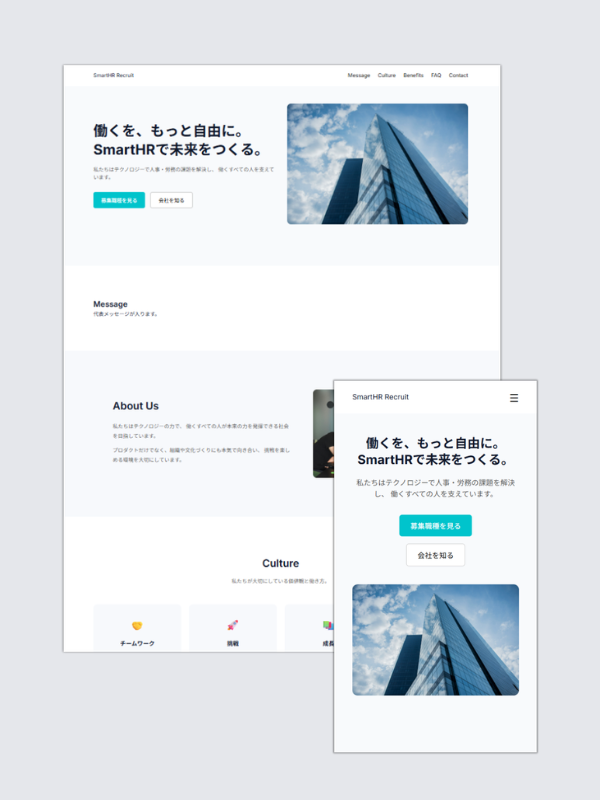
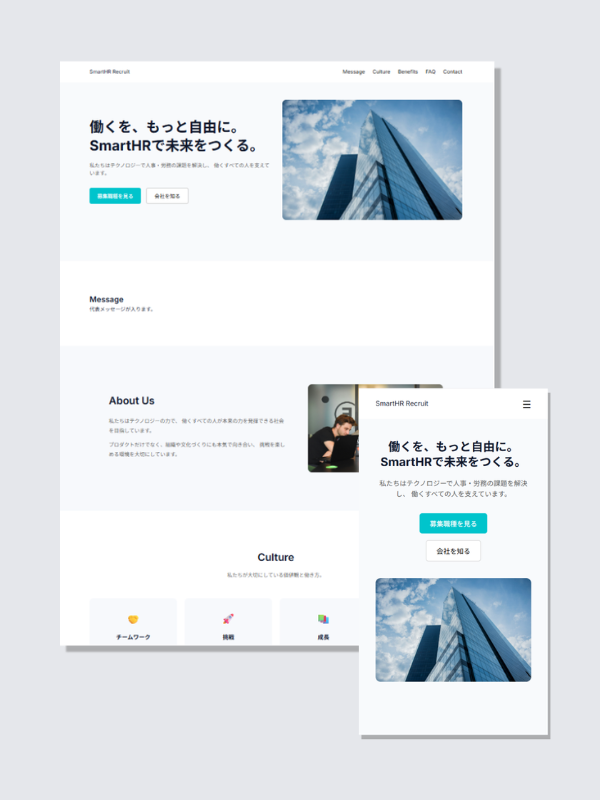
update: responsive + UI improvement

Changed region(s): [[0.09, 0.0625, 0.93, 0.9375], [0.18, 0.5, 0.48, 0.5938], [0.15, 0.3438, 0.27, 0.4062]]

diff --git a/src/components/sections/Works/Work.css b/src/components/sections/Works/Work.css
@@ -1,0 +1,218 @@
+/* ===== Works全体 ===== */
+.works {
+  background: #f7f7f7;
+  padding: 80px 20px;
+}
+
+.works h2 {
+  text-align: center;
+  margin-bottom: 60px;
+}
+
+
+/* ===== グリッド（2列） ===== */
+.projects-grid {
+  display: grid;
+  max-width: 2000px;
+  margin: 0 auto;
+  grid-template-columns: 1fr 1fr;
+  gap: 40px;
+}
+
+.project-card {
+  display: flex;
+  background: #fff;
+  align-items: stretch; 
+  border-radius: 16px; 
+  overflow: hidden;
+  transition: 0.25s;
+
+  box-shadow: 0 10px 30px rgba(0,0,0,0.08);
+}
+
+/* ===== 左：テキスト ===== */
+.project-card__content {
+  flex: 1;
+  padding: 50px;
+  display: flex;
+  flex-direction: column;
+  justify-content: center;
+}
+
+/* ===== 左：全体 ===== */
+.project-card__content {
+  flex: 1;
+  padding: 60px 50px; 
+  display: flex;
+  flex-direction: column;
+  justify-content: center;
+  gap: 20px;
+}
+
+/* タイトル */
+.project-card__title {
+  font-size: 24px;
+  font-weight: 600;
+  margin-bottom: 10px;
+}
+
+/* 説明 */
+.project-card__description {
+  font-size: 14px;
+  color: #555;
+  line-height: 1.6;
+}
+
+/* 技術タグ */
+.project-card__tech {
+  display: flex;
+  flex-wrap: wrap;
+  gap: 8px;
+}
+
+.project-card__tech span {
+  background: #ebebeb;
+  color: #454546;
+  font-size: 12px;
+  padding: 4px 10px;
+  border-radius: 20px;
+}
+
+/* 箇条書き */
+.project-card__ingenuity {
+  list-style: none;
+  padding: 0;
+}
+
+.project-card__ingenuity li {
+  position: relative;
+  padding-left: 16px;
+  margin-bottom: 6px;
+  font-size: 14px;
+}
+
+/* ■ 四角点 */
+.project-card__ingenuity li::before {
+  content: "■";
+  position: absolute;
+  left: 0;
+  color: #5f5f5f;
+  font-size: 10px;
+  top: 4px;
+}
+
+/* ===== ボタン ===== */
+.project-card__links {
+  display: flex;
+  justify-content: center;
+  gap: 12px;
+  margin-top: 10px;
+  gap: 25px;          /* ←広げる */
+}
+
+/* Demo（メインボタン） */
+.project-card__demo {
+  background: #c0c0c0;
+  color: #fff;
+  padding: 10px 18px;
+  border-radius: 6px;
+  font-size: 14px;
+  text-decoration: none;
+  transition: 0.2s;
+}
+
+.project-card__demo:hover {
+  background: #969696;
+}
+
+/* GitHub（サブボタン） */
+.project-card__github {
+  border: 1px solid #969696;
+  color: #969696;
+  padding: 10px 18px;
+  border-radius: 6px;
+  font-size: 14px;
+  text-decoration: none;
+  transition: 0.2s;
+}
+
+.project-card__github:hover {
+  background: #c0c0c0;
+}
+
+.project-card__demo,
+.project-card__github {
+  min-width: 100px;
+  text-align: center;
+}
+
+/* ===== 右：画像 ===== */
+.project-card__image {
+  flex: 1.2;
+  position: relative;
+  
+
+}
+
+.project-card__image img {
+  width: 100%;
+  height: 100%;
+  object-fit: cover; 
+}
+
+
+@media (max-width: 768px) {
+
+}
+
+@media (max-width: 768px) {
+
+    .project-card__content {
+    text-align: center;
+  }
+
+  .project-card__ingenuity li {
+    display: flex;
+    align-items: center; 
+    justify-content: center;
+    gap: 8px;
+    padding-left: 0;
+  }
+
+  .project-card__ingenuity li::before {
+    content: "■";
+    position: static;
+    font-size: 10px;
+    transform: translateY(1px); 
+  }
+
+  .project-card__tech {
+    justify-content: center;
+    align-items: center; /* ←これ追加してもOK */
+  }
+
+  .projects-grid {
+    grid-template-columns: 1fr;
+  }
+
+  .project-card {
+    flex-direction: column;
+  }
+
+  .project-card__image {
+    background-color: #e5e7eb;
+    display: flex;
+    justify-content: center;
+    height: 220px; 
+    order: -1; 
+  }
+
+  .project-card__image img {
+    width: auto;
+    height:300px;
+  }
+
+  .project-card__content {
+    padding: 24px;
+  }
+}

diff --git a/src/components/sections/Works/Works.css b/src/components/sections/Works/Works.css
@@ -1,6 +1,6 @@
 /* ===== Works全体 ===== */
 .works {
-  background: #e5e7eb;
+  background: #f7f7f7;
   padding: 80px 20px;
 }
 
@@ -11,7 +11,7 @@
 
 /* ===== グリッド（2列） ===== */
 .projects-grid {
-  max-width: 1600px;
+  max-width: 2000px;
   margin: 0 auto;
   display: grid;
   grid-template-columns: 1fr 1fr;
@@ -22,10 +22,8 @@
 .project-card {
   display: flex;
   background: #fff;
-  border-radius: 12px;
-  overflow: hidden; /* ←超重要（画像はみ出し防止） */
+  height: 570px;
 
-  min-height: 420px;
 
   box-shadow: 0 10px 30px rgba(0,0,0,0.08);
 }
@@ -33,8 +31,7 @@
 /* ===== 左：テキスト ===== */
 .project-card__content {
   flex: 1;
-  padding: 40px;
-
+  padding: 50px;
   display: flex;
   flex-direction: column;
   justify-content: center;
@@ -101,9 +98,7 @@
 
 .project-card__image img {
   width: 100%;
-  height: 100%;
   object-fit: cover; 
-  transform: scale(1.05);
 }
 
 /* ===== レスポンシブ ===== */

diff --git a/src/components/sections/About/About.css b/src/components/sections/About/About.css
@@ -1,5 +1,5 @@
 .about {
-  background-color: #f3f4f6;
+  background-color: #f7f7f7;
   padding: 80px 20px;
 }
 
@@ -34,4 +34,28 @@
 
 .about__content p {
   margin-bottom: 16px;
+}
+
+@media (max-width: 768px) {
+  .about__container {
+    flex-direction: column; /* ←縦並び */
+    text-align: center;     /* ←中央寄せ */
+    gap: 24px;
+  }
+
+  .about__image {
+    order: -1; /* ←画像を上に */
+  }
+
+  .about__image img {
+    width: 120px;
+    height: 120px;
+  }
+
+  .about__content {
+    font-size: 13px;
+    line-height: 1.7;
+      max-width: 320px;  /* ←これが神 */
+  margin: 0 auto;    /* ←中央に */
+  }
 }

diff --git a/src/components/sections/Works/Works.tsx b/src/components/sections/Works/Works.tsx
@@ -1,6 +1,6 @@
 import { ProjectCard } from "../../works/ProjectCard";
 import { projects } from "../../../data/projects";
-import "./Works.css";
+import "./Work.css";
 
 const Works = () => {
   return (

diff --git a/src/components/sections/Skill/Skill.css b/src/components/sections/Skill/Skill.css
@@ -67,7 +67,13 @@
 
 /* スマホ */
 @media (max-width: 768px) {
+
+  .skill {
+  padding: 80px 50px;
+}
   .skill__grid {
     grid-template-columns: 1fr;
   }
+
+  
 }

diff --git a/src/index.css b/src/index.css
@@ -1,0 +1,5 @@
+* {
+  margin: 0;
+  padding: 0;
+  box-sizing: border-box;
+}
